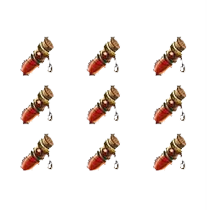
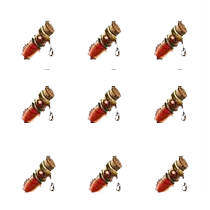
modify potion

diff --git a/HaTrick/src/com/hatrick/graphic/Stage.java b/HaTrick/src/com/hatrick/graphic/Stage.java
@@ -211,6 +211,15 @@ public class Stage {
 		return false;
 	}
 	
+	private static boolean hasPotion(ArrayList<Potion> list,int logic_id){
+		for(int i=0;i<list.size();i++){
+			if(list.get(i).id == logic_id){
+				return true;
+			}
+		}
+		return false;
+	}
+	
 	private static boolean hasBomb(ArrayList<Bomb> list,int logic_id){
 		for(int i=0;i<list.size();i++){
 			if(list.get(i).id == logic_id){
@@ -288,6 +297,9 @@ public class Stage {
 				iter.remove();
 			}
 			if(sprt.isAvatar() && !hasHero(list,sprt.getLogicId())){
+				iter.remove();
+			}
+			if(sprt.isPotion() && !hasPotion(potion_list,sprt.getLogicId())){
 				iter.remove();
 			}
 			if(sprt.isExposion() && !sprt.isActing()){

diff --git a/HaTrick/src/com/hatrick/graphic/Potion.java b/HaTrick/src/com/hatrick/graphic/Potion.java
@@ -13,7 +13,7 @@ public class Potion extends Sprite{
 		this.setDirectional(false);
 		this.setLoop(true);
 		this.setScale(1.0f);
-		AnimationInfo [] ani_infos = AnimationResource.bubbles.still.get(type);
+		AnimationInfo [] ani_infos = AnimationResource.potions.still.get(type);
 		AnimationInfo info = ani_infos[0];
 		addAnimation(0,info);
 		//Adjust the duration

diff --git a/HaTrick/src/com/hatrick/resource/AnimationResource.java b/HaTrick/src/com/hatrick/resource/AnimationResource.java
@@ -244,5 +244,14 @@ public class AnimationResource {
 			};
 		};
 	}
+	public static class potions{
+		public static HashMap<Integer,AnimationInfo[]> still = new HashMap<Integer,AnimationInfo[]>(){
+			{
+				put(Sprite.POTION_1,new AnimationInfo[]{
+						new AnimationInfo("res/game/graphic/potion/potion_1.png",3,3,0,2,0,2,35,35)
+				});
+			};
+		};
+	}
 }
 
